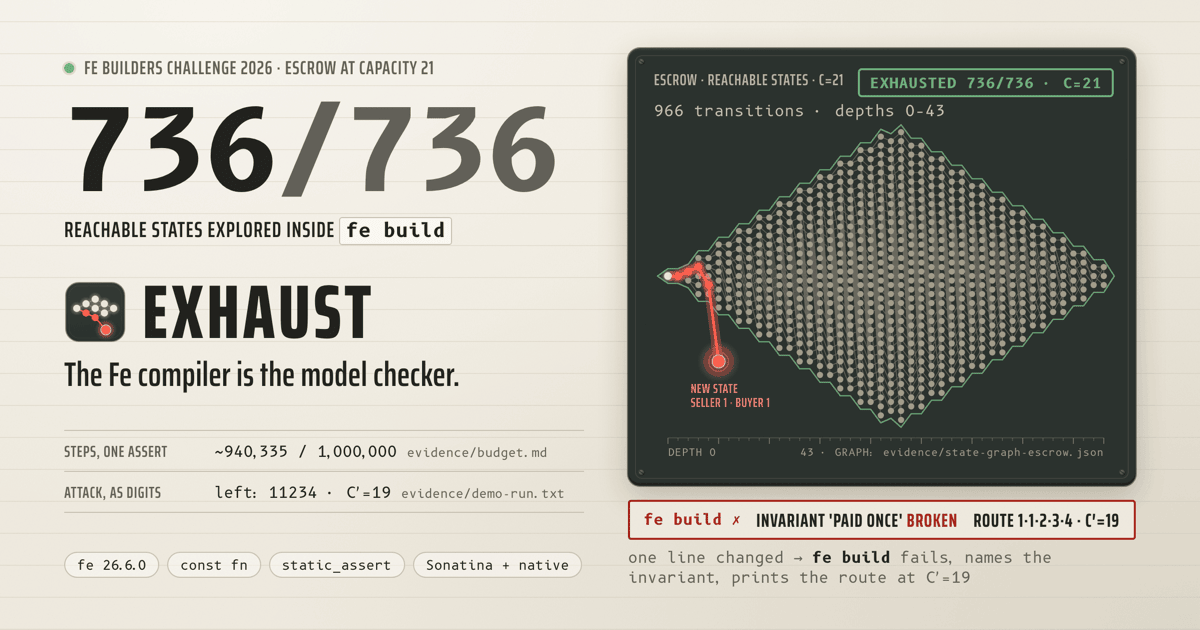
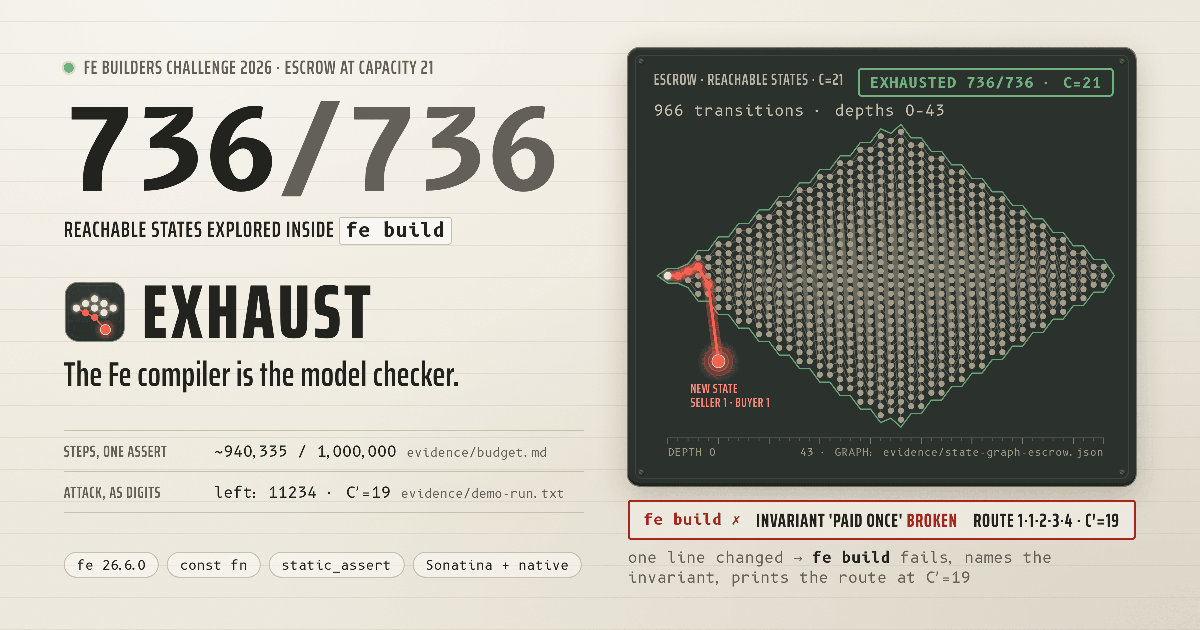
docs: demo video badge, drop unreferenced images from docs/assets, losslessly smaller og image and GIF

diff --git a/README.md b/README.md
@@ -6,11 +6,12 @@
 
   <br/>
 
-  [![Fe Builders Challenge 2026](https://img.shields.io/badge/Fe_Builders-Challenge_2026-8b5cf6?style=for-the-badge)](https://fe-lang.org/contest/)
-  [![Reproduce every number](https://img.shields.io/badge/📋_Reproduce-DEMO.md-06b6d4?style=for-the-badge)](DEMO.md)
-  [![Raw evidence](https://img.shields.io/badge/🧾_Raw-Evidence-f59e0b?style=for-the-badge)](evidence/)
   [![Landing page](https://img.shields.io/badge/🔦_Landing-exhaust.edycu.dev-A8261C?style=for-the-badge)](https://exhaust.edycu.dev/)
   [![Pitch deck](https://img.shields.io/badge/🎞_Pitch-Deck-23221E?style=for-the-badge)](https://exhaust.edycu.dev/deck/)
+  [![Demo video](https://img.shields.io/badge/▶_Demo-Video_86s-FF0000?style=for-the-badge&logo=youtube&logoColor=white)](https://youtu.be/xmKGKjVZAwA)
+  [![Reproduce every number](https://img.shields.io/badge/📋_Reproduce-DEMO.md-06b6d4?style=for-the-badge)](DEMO.md)
+  [![Raw evidence](https://img.shields.io/badge/🧾_Raw-Evidence-f59e0b?style=for-the-badge)](evidence/)
+  [![Fe Builders Challenge 2026](https://img.shields.io/badge/Fe_Builders-Challenge_2026-8b5cf6?style=for-the-badge)](https://fe-lang.org/contest/)
 
   <br/>
 
